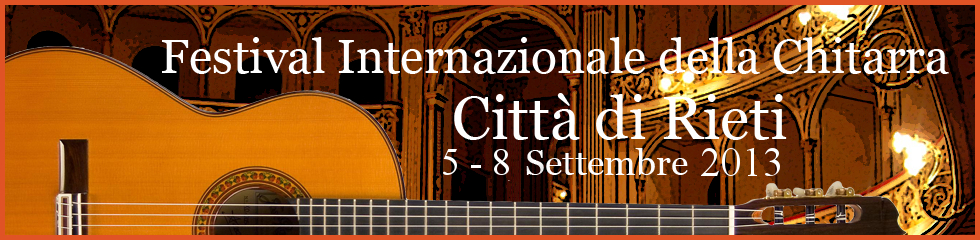
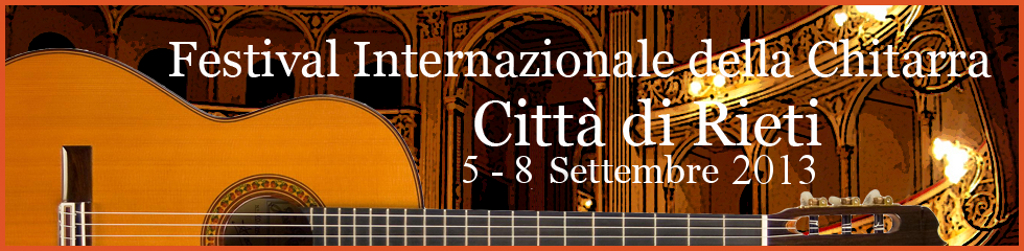
Pannello funzionante

diff --git a/js/wall.js b/js/wall.js
@@ -5,8 +5,38 @@ function OpenWebSocket() {
 		obj = JSON.parse(message.data);
 
 		if (obj.cmd=="slide") {
-			changeSlide(obj.slide);
+			$('#banner').addClass('animated bounceOutRight');
+			var wait = window.setTimeout( function(){
+					$('#banner').removeClass()
+					$('#banner_img').attr('src',obj.slide);
+					$('#banner').addClass('animated bounceInLeft');
+					var wait = window.setTimeout( function(){
+						$('#banner').removeClass()},
+						1300
+					);
+				},
+				1300
+			);
 		}
+
+		if (obj.cmd=="titolo_1") {
+			$('#titolo_1').removeClass();
+			$("#titolo_1").html("<span id='tlt_titolo_1' data-in-effect='fadeInLeftBig'>" + obj.text + "</span>");
+			$('#tlt_titolo_1').textillate();
+		}
+		if (obj.cmd=="titolo_2") {
+			$('#titolo_2').removeClass();
+			$("#titolo_2").html("<span id='tlt_titolo_2' data-in-effect='fadeInLeftBig'>" + obj.text + "</span>");
+			$('#tlt_titolo_2').textillate();
+		}
+		if (obj.cmd=="titolo_3") {
+			$('#titolo_3').removeClass();
+			$("#titolo_3").html("<span id='tlt_titolo_3' data-in-effect='fadeInLeftBig'>" + obj.text + "</span>");
+			$('#tlt_titolo_3').textillate();
+		}
+
+
+
 	};
 	
 	websocket.onopen = function() 	{
@@ -19,30 +49,6 @@ function OpenWebSocket() {
 }
 
 $(document).ready(function() {
-
-	$("#text_in").click(function() {
-		$("#titolo").html("<span id='tlt_titolo' data-in-effect='fadeInLeftBig'>Leonardo Gallucci</span>");
-		$('#tlt_titolo').textillate();
-		$("#contenuto").html("<span id='tlt_contenuto' data-in-effect='fadeInLeftBig'>Sonorità Ladispolesi e altri componimenti in musica dal medioevo ad oggi.</span>");
-		$('#tlt_contenuto').textillate();
-
-		$('#titolo').removeClass('animated bounceOutLeft');
-		$('#contenuto').removeClass('animated bounceOutRight');
-
-		$('#artista').removeClass('animated bounceOutRight');
-		$('#artista').addClass('animated bounceInRight');
-		$('#artista').html("<img src='/slides/gallucci_in_piedi.png' />");
-
-		
-	});	
-
-	$("#text_out").click(function() {
-		$('#titolo').addClass('animated bounceOutLeft');
-		$('#contenuto').addClass('animated bounceOutRight');
-		$('#artista').removeClass('animated bounceInRight');
-		$('#artista').addClass('animated bounceOutRight');
-	});	
-	
 	websocket=OpenWebSocket();
 
 	setInterval(function(){

diff --git a/js/panel.js b/js/panel.js
@@ -1,36 +1,48 @@
 // Open a websocket with the server
 var wsCommand = new WebSocket("ws://" + location.host + "/websocket");
 
+function liveAll() {
+	wsCommand.send('{"cmd":"titolo_1","text":"' + $("#titolo_1_text").val() + '"}');
+	wsCommand.send('{"cmd":"titolo_2","text":"' + $("#titolo_2_text").val() + '"}');
+	wsCommand.send('{"cmd":"titolo_3","text":"' + $("#titolo_3_text").val() + '"}');	
+}
+
+function copertina() {
+	$("#titolo_1_text").val("Auditorium di Santa Scolastica");
+	$("#titolo_2_text").val("5-9 Settembre 2013");
+	$("#titolo_3_text").val("");
+}
+
+function clearAll() {
+	$("#titolo_1_text").val("");
+	$("#titolo_2_text").val("");
+	$("#titolo_3_text").val("");
+}
+
 function ShowThumbnail(slideslist) {
 	htmlcontents="";
 	for (var slide in slideslist) {
 		console.log(slideslist[slide]);
-		htmlcontents+="<table>";
-		htmlcontents+="<tr>";
-		htmlcontents+="<td>";
 		htmlcontents+="<img class='slide' src='/slides/" + slideslist[slide] + "' width='240'/>";
-		htmlcontents+="</td>";
-		htmlcontents+="<td>";
-		htmlcontents+="<button class='thumbnaillive' image='/slides/" + slideslist[slide] + "'>Live</button>";
-		htmlcontents+="</td>";
-		htmlcontents+="</tr>";
-		htmlcontents+="</table>";
 		htmlcontents+="<br/>";
 	}	
 	$("#thumbnaillist").html(htmlcontents);
-	$(".thumbnaillive").click(function() {
-		console.log($(this).attr("image"));
-		wsCommand.send('{"cmd":"slide","slide":"' + $(this).attr("image") + '"}');
+	$(".slide").click(function() {
+		wsCommand.send('{"cmd":"slide","slide":"' + $(this).attr("src") + '"}');
 	});
+	$("#titolo_1_live").click(function() {
+		wsCommand.send('{"cmd":"titolo_1","text":"' + $("#titolo_1_text").val() + '"}');
+	});
+	$("#titolo_2_live").click(function() {
+		wsCommand.send('{"cmd":"titolo_2","text":"' + $("#titolo_2_text").val() + '"}');
+	});
+	$("#titolo_3_live").click(function() {
+		wsCommand.send('{"cmd":"titolo_3","text":"' + $("#titolo_3_text").val() + '"}');
+	});
+
 }
 
 $(document).ready(function() {
-	
-	$("#reloadbutton").click(function() {
-		console.log("Reload");
-		window.location.reload(true);
-	});
-	
 	// Load the slides list
 	$.ajax({
 		dataType: "json",

diff --git a/wall.html b/wall.html
@@ -19,24 +19,22 @@
 			<img src="/images/background.jpg" />
 		</div>
 		<div id="banner">
-			<img src="/images/banner.jpg" />
-		</div>
-		<div id="logo_festival_rieti">
-			<img src="/images/logo_festival_rieti.png" />
+			<img id="banner_img"src="/images/banner.jpg" />
 		</div>
 		<div id="testo_fondazione">
 			Fondazione di Demodossalogia Perini-Bembo
-			<br/>
-			<button id="text_in">In</button>
-			<button id="text_out">Out</button>
 		</div>
 		<div id="logo_perini_bembo">
 			<img src="/images/logo_perini_bembo.png" />
 		</div>
 		<div id="artista">
 		</div>
-		<div id="titolo"></div>
-		<div id="contenuto"></div>
+		
+		<div id="spazio_testo">
+			<div id="titolo_1"></div>
+			<div id="titolo_2"></div>
+			<div id="titolo_3"></div>
+		</div>	
 	</div>
 </body>
 </html>

diff --git a/css/wall.css b/css/wall.css
@@ -37,9 +37,9 @@ html, body {
 #banner {
 	z-index: 3;
 	position: absolute;
-	left: 10%;
-	top: 5px;
-	width:80%;
+	left: 0px;
+	top: 0px;
+	width:100%;
 }
 
 #banner img {
@@ -91,22 +91,30 @@ html, body {
 	position: absolute;
 }
 
-#titolo {
+#spazio_testo {
 	position: absolute;
-	z-index: 4;
-	left: 200px; 
-	top: 200px;
+	top: 40%;
+	right: 5%;
+	left: 5%;
+}
+
+#titolo_1 {
+	position: relative;
 	font-weight:bold;
 	font-size: 40pt;
 	color: black;
 }
 
-#contenuto {
-	position: absolute;
-	z-index: 4;
-	left: 200px; 
-	top: 260px;
+#titolo_2 {
+	position: relative;
+	font-weight:bold;
 	font-size: 30pt;
 	color: white;
 }
 
+#titolo_3 {
+	position: relative;
+	font-weight:bold;
+	font-size: 30pt;
+	color: blue;
+}

diff --git a/panel.html b/panel.html
@@ -11,8 +11,20 @@
 </head> 
 
 <body> 
-	<button id="reloadbutton">Reload</button>
+	<button onclick=clearAll()>Clear all</button>
+	<button onclick=copertina()>Copertina</button>
+	<button onclick=liveAll()>Live all</button>
 	<div id="thumbnaillist">
 	</div>
+	<div id="titolatrice">
+		<fieldset>
+			<legend>Titolatrice:</legend>
+			Titolo 1 <button id="titolo_1_live">Live !</button><input id="titolo_1_text" type="text"/>
+			<hr/>
+			Titolo 2 <button id="titolo_2_live">Live !</button><input id="titolo_2_text" type="text"/>
+			<hr/>
+			Titolo 3 <button id="titolo_3_live">Live !</button><input id="titolo_3_text" type="text"/>
+		 </fieldset>	
+	 </div>
 </body>
 </html>

diff --git a/css/panel.css b/css/panel.css
@@ -3,6 +3,23 @@ html, body {
 	padding: 0px;
 	width  : 100%;
 	height : 100%;
-	background-color: darkgrey;
+	background-color: #EBA742;
 }
 
+#thumbnaillist {
+	width: 240px;
+	position: absolute;
+	z-index: 0;
+	left: 10px;
+}
+
+#titolatrice {
+	position: absolute;
+	z-index: 0;
+	left: 260px;
+	right: 10px;
+}
+
+#titolatrice input {
+	width: 100%;
+}

diff --git a/wifibox.py b/wifibox.py
@@ -38,7 +38,7 @@ def main():
 		(r"/websocket", WebSocketHandler),
 		(r"/(.*)", tornado.web.StaticFileHandler, {"path": ".","default_filename": "index.html"}),
 	])
-	application.listen(8888)
+	application.listen(80)
  
 
 	mainLoop = tornado.ioloop.IOLoop.instance()
